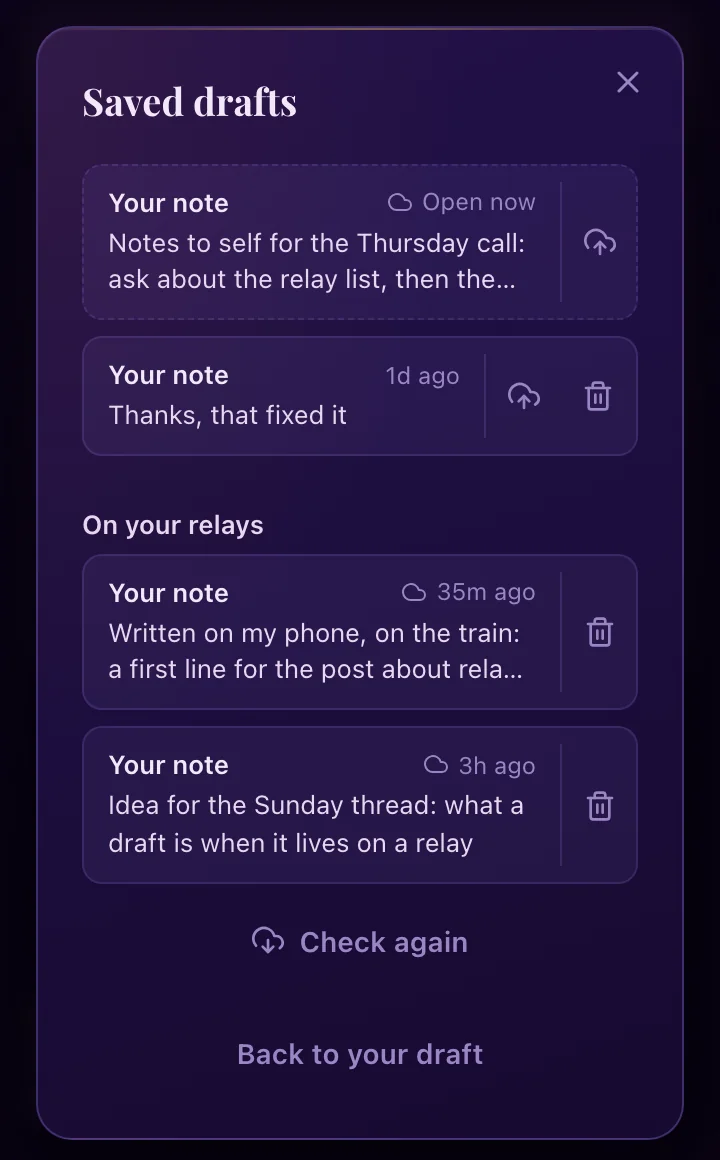
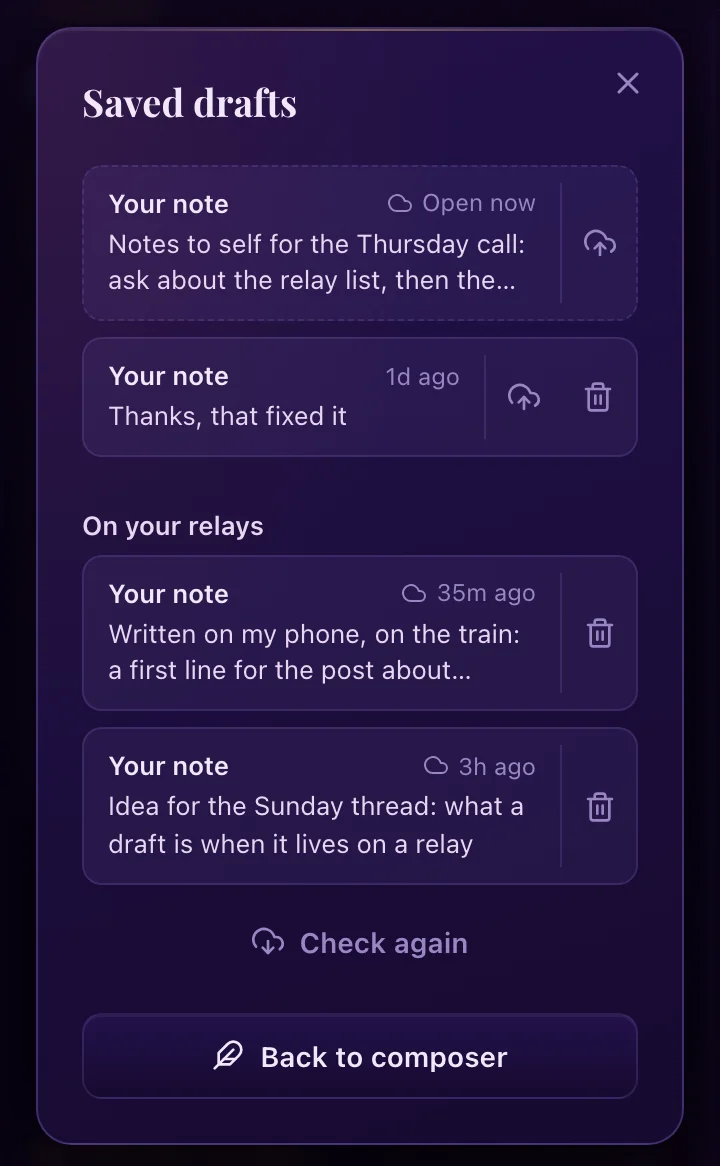
Open Saved drafts without a local draft, and read nostr references in draft rows (#643)
* Open Saved drafts without a local draft, and read nostr references in draft rows

The compose menu's "Open saved drafts" was shown only when this device held a draft, which
hid the way to drafts kept on relays from anyone who had none here. It is now there for any
account.

In the one-line view of a draft, a mention is "@name" (a short npub until the name is known,
looked up when the panel has not seen the person) and a quoted note, event or address is its
first and last characters, not 60 characters of bech32. The stored draft is unchanged.

The way out of the list says "Back to composer", as a full-width button with the composer's
feather, since it is also reached with no draft in progress.

* Say in the changelog and help that Open saved drafts is always there, and retire the old back label

Drops "Back to your draft" from the locale files, since nothing uses it now.

* Retake the Saved drafts help image with the Back to composer button

---------

diff --git a/test/saved-drafts.test.js b/test/saved-drafts.test.js
@@ -46,8 +46,9 @@ function find(el, cls) {
   return null;
 }
 
-function load() {
+function load(extra) {
   const ctx = withI18n({
+    ...(extra || {}),
     console,
     Date,
     h: (tag, props, kids) => {
@@ -63,9 +64,9 @@ function load() {
   });
   vm.createContext(ctx);
   vm.runInContext(
-    ['draftHasContent', 'otherDraftEntries', 'draftSnippet', 'draftKindLabel', 'buildSavedDraftList'].map(lift).join('\n') +
+    ['draftHasContent', 'otherDraftEntries', 'draftRefsAsText', 'draftSnippet', 'draftKindLabel', 'buildSavedDraftList'].map(lift).join('\n') +
       '\nthis.draftHasContent = draftHasContent; this.otherDraftEntries = otherDraftEntries;' +
-      ' this.buildSavedDraftList = buildSavedDraftList;',
+      ' this.buildSavedDraftList = buildSavedDraftList; this.draftSnippet = draftSnippet;',
     ctx
   );
   return ctx;
@@ -200,4 +201,53 @@ test('a reply saved without its target is looked up before it opens', () => {
   // Opened as it stood, the slot would be chosen without a target: the note draft.
   assert.match(panel, /if \(entry\.reply && !\(target && target\.id\)\) \{\s*const ev = await fetchNoteById\(entry\.replyId\);/);
   assert.match(panel, /if \(!ev\) \{ toast\(t\('The note this reply answers could not be loaded\.'\), 'error'\); return; \}/);
+});
+
+
+// ---- a mention or a quoted note in a draft reads as a person would read it, not as bech32 ----
+
+function realNostrTools() {
+  const ntCtx = vm.createContext({ crypto: globalThis.crypto, TextEncoder, TextDecoder, setTimeout, clearTimeout, console, URL, queueMicrotask });
+  ntCtx.self = ntCtx; ntCtx.window = ntCtx; ntCtx.globalThis = ntCtx;
+  vm.runInContext(fs.readFileSync(path.join(ROOT, 'nostr-tools.js'), 'utf8'), ntCtx);
+  return ntCtx.NostrTools;
+}
+
+test('a nostr: reference in the one-line view is a short form, never the whole bech32', () => {
+  const NT = realNostrTools();
+  const { draftSnippet } = load();
+  const npub = NT.nip19.npubEncode(PK);
+  const nevent = NT.nip19.neventEncode({ id: N1 });
+  const nprofile = NT.nip19.nprofileEncode({ pubkey: OTHER, relays: ['wss://relay.example/'] });
+  const text = 'thanks nostr:' + npub + ' and nostr:' + nprofile + ', see nostr:' + nevent;
+  const out = draftSnippet({ text });
+  assert.ok(!out.includes(npub) && !out.includes(nprofile) && !out.includes(nevent), 'no full reference is left: ' + out);
+  assert.ok(!out.includes('nostr:'), 'the scheme goes with it: ' + out);
+  assert.ok(out.startsWith('thanks @' + npub.slice(0, 10) + '\u2026' + npub.slice(-4)), out);
+  assert.ok(out.endsWith(nevent.slice(0, 10) + '\u2026' + nevent.slice(-4)), 'an event is its first and last characters: ' + out);
+  // A name, once known, replaces the short form for that person only.
+  const named = draftSnippet({ text }, { [npub]: 'Amelia' });
+  assert.ok(named.startsWith('thanks @Amelia and @'), named);
+  // Text with no reference is untouched, and a malformed one is left as written.
+  assert.equal(draftSnippet({ text: 'plain   words ' }), 'plain words');
+  assert.equal(draftSnippet({ text: 'nostr:npub1short' }), '@npub1short');
+});
+
+test('a row shows a short npub at once and the person\'s name when it arrives, and keeps the draft whole', async () => {
+  const NT = realNostrTools();
+  const npub = NT.nip19.npubEncode(PK);
+  const { buildSavedDraftList } = load({ window: { NostrTools: NT } });
+  let resolve;
+  const asked = [];
+  const list = buildSavedDraftList({
+    entries: [{ key: 'k', draft: { text: 'hello nostr:' + npub + ' there', savedAt: 1 } }],
+    nameFor: (pk) => { asked.push(pk); return new Promise((r) => { resolve = r; }); },
+    onPick() {}, onDelete: async () => {},
+  });
+  const snip = find(list, 'saved-draft-snip');
+  assert.equal(snip.textContent, 'hello @' + npub.slice(0, 10) + '\u2026' + npub.slice(-4) + ' there');
+  assert.deepEqual(asked, [PK]);
+  resolve('Amelia');
+  await new Promise((r) => setTimeout(r, 0));
+  assert.equal(snip.textContent, 'hello @Amelia there');
 });

diff --git a/composer-core.js b/composer-core.js
@@ -2804,8 +2804,22 @@ window.SidecarCore = (function () {
     all[pubkey] = { ...picked, savedAt: now };
     return true;
   }
-  function draftSnippet(d) {
-    const text = stripDraftMediaUrls(d.text || '', d.media).replace(/\s+/g, ' ').trim();
+  // THE ONE-LINE VIEW OF A DRAFT READS NOSTR REFERENCES AS A PERSON WOULD. A mention is
+  // stored as nostr:npub1… or nostr:nprofile1…, 63 characters or more of bech32 that filled
+  // the row and said nothing. A person is "@name", or a short npub until the name is known
+  // (`names` maps the bech32 to it), and a note, event or address is its first and last
+  // characters. Only the display changes: the draft keeps the full reference.
+  function draftRefsAsText(text, names) {
+    return String(text || '').replace(/nostr:((?:npub|nprofile|note|nevent|naddr)1[02-9ac-hj-np-z]+)/g, (whole, code) => {
+      const person = code.startsWith('npub1') || code.startsWith('nprofile1');
+      const known = names && names[code];
+      if (person && known) return '@' + known;
+      const short = code.length > 20 ? code.slice(0, 10) + '\u2026' + code.slice(-4) : code;
+      return person ? '@' + short : short;
+    });
+  }
+  function draftSnippet(d, names) {
+    const text = draftRefsAsText(stripDraftMediaUrls(d.text || '', d.media), names).replace(/\s+/g, ' ').trim();
     if (text) return text;
     // A poll with its options typed and no question yet still says what it is.
     const opts = (d.poll && d.poll.options || []).map((o) => (o || '').trim()).filter(Boolean);
@@ -2857,7 +2871,25 @@ window.SidecarCore = (function () {
         meta.append(mark);
       }
       meta.append(when);
-      const snip = h('span', { className: 'saved-draft-snip', dir: 'auto', textContent: draftSnippet(entry.draft) });
+      // The people named in the text: a short npub at once, their name when it arrives.
+      const names = {};
+      const NT = (typeof window !== 'undefined' && window.NostrTools) || null;
+      const people = new Map();
+      if (NT) {
+        for (const m of String(entry.draft.text || '').matchAll(/nostr:((?:npub|nprofile)1[02-9ac-hj-np-z]+)/g)) {
+          try {
+            const dec = NT.nip19.decode(m[1]);
+            const pk = dec.type === 'npub' ? dec.data : dec.data && dec.data.pubkey;
+            if (!pk) continue;
+            const npub = NT.nip19.npubEncode(pk);
+            names[m[1]] = npub.slice(0, 10) + '\u2026' + npub.slice(-4);
+            if (!people.has(pk)) people.set(pk, []);
+            people.get(pk).push(m[1]);
+          } catch (_) { /* a reference that does not decode stays as its short form */ }
+        }
+      }
+      const snipText = () => draftSnippet(entry.draft, names);
+      const snip = h('span', { className: 'saved-draft-snip', dir: 'auto', textContent: snipText() });
       const open = h('button', { className: 'saved-draft-open', type: 'button' }, [top, snip]);
       const kids = [open];
       if (d.onSave && !entry.relayItem && !entry.draft.poll) {
@@ -2890,13 +2922,23 @@ window.SidecarCore = (function () {
         }).catch(() => {});
       }
 
+      if (d.nameFor) {
+        people.forEach((codes, pk) => {
+          Promise.resolve(d.nameFor(pk)).then((n) => {
+            if (!n || !snip.isConnected) return;
+            codes.forEach((c) => { names[c] = n; });
+            if (!row.classList.contains('confirming')) snip.textContent = snipText();
+          }).catch(() => {});
+        });
+      }
+
       let timer = null;
       const settle = () => {
         clearTimeout(timer);
         row.classList.remove('confirming');
         label.textContent = draftKindLabel(entry, name);
         meta.classList.remove('hidden');
-        snip.textContent = draftSnippet(entry.draft);
+        snip.textContent = snipText();
       };
       const confirmDelete = () => {
         row.classList.add('confirming');

diff --git a/test/saved-drafts-shortcut.browser.test.js b/test/saved-drafts-shortcut.browser.test.js
@@ -1,7 +1,8 @@
 'use strict';
 
-// "Open saved drafts" on the compose menu, against the REAL extension. The item appears only
-// when the account has drafts, opens the same list the composer's folder opens, and does it
+// "Open saved drafts" on the compose menu, against the REAL extension. The item is always there
+// (the list is also where drafts kept on relays are read back, so it cannot wait for a draft on
+// this device), opens the same list the composer's folder opens, and does it
 // without writing over the draft it is there to list: opened with a note in progress, that note
 // is the "Open now" row and Back returns to it with every word still there.
 
@@ -22,7 +23,7 @@ async function openMenu(x) {
 }
 const stored = async (x) => ((await x.message({ type: 'SIDECAR_SECRET_GET', store: 'drafts' })) || {}).result || {};
 
-test('the item is there only when there are drafts, and the list opens without overwriting the draft', opts, async (t) => {
+test('the item is there with no drafts at all, and the list opens without overwriting the draft', opts, async (t) => {
   let x;
   try { x = await startExtension(); } catch (e) { if (e.skip) return t.skip(e.message); throw e; }
   try {
@@ -30,11 +31,18 @@ test('the item is there only when there are drafts, and the list opens without o
 
     await openMenu(x);
     assert.equal(await x.evaluate(visible('#compose-note-btn')), true, 'the menu is open');
-    assert.equal(await x.evaluate(visible('#saved-drafts-btn')), false, 'no drafts, no item');
+    assert.equal(await x.evaluate(visible('#saved-drafts-btn')), true, 'no drafts on this device, and the item is still there');
+    // With nothing saved here the list still opens, and it is where the relays are checked.
+    assert.ok(await x.evaluate(click('#saved-drafts-btn')));
+    await x.waitFor(`!!document.querySelector('#modal .relay-drafts-btn')`);
+    assert.match(await x.evaluate(`document.querySelector('#modal h3').textContent`), /Saved drafts/);
+    assert.equal(await x.evaluate(`!!document.querySelector('#modal .saved-draft')`), false, 'no rows, nothing to list');
+    await x.evaluate(`document.querySelector('#modal .modal-x').click()`);
+    await x.waitFor(`!document.querySelector('#modal') || document.querySelector('#modal').classList.contains('hidden') || !document.querySelector('#modal h3')`).catch(() => {});
 
     await x.message({ type: 'SIDECAR_SECRET_SET', store: 'drafts', value: { [x.me]: { text: 'A note in progress', media: [], savedAt: Date.now() } } });
     await openMenu(x);
-    assert.equal(await x.evaluate(visible('#saved-drafts-btn')), true, 'a draft in progress shows the item');
+    assert.equal(await x.evaluate(visible('#saved-drafts-btn')), true, 'a draft in progress keeps the item');
 
     assert.ok(await x.evaluate(click('#saved-drafts-btn')));
     await x.waitFor(`!!document.querySelector('#modal .saved-draft-current')`);
@@ -46,7 +54,7 @@ test('the item is there only when there are drafts, and the list opens without o
     assert.equal((await stored(x))[x.me].text, 'A note in progress');
 
     // And back to it, in the editor, with the text in the box.
-    assert.ok(await x.evaluate(`(() => { const b = [...document.querySelectorAll('#modal button')].find((e) => e.textContent.trim() === 'Back to your draft'); if (!b) return false; b.click(); return true; })()`));
+    assert.ok(await x.evaluate(`(() => { const b = [...document.querySelectorAll('#modal button')].find((e) => e.textContent.trim() === 'Back to composer'); if (!b) return false; b.click(); return true; })()`));
     await x.waitFor(`!!document.querySelector('#modal [contenteditable]')`);
     assert.equal(await x.evaluate(`document.querySelector('#modal [contenteditable]').innerText.trim()`), 'A note in progress');
     assert.deepEqual(x.errors, []);

diff --git a/sidepanel.js b/sidepanel.js
@@ -1916,22 +1916,13 @@
     toast(t('Locked'), 'success');
   });
 
-  // "Open saved drafts" on the compose menu, only when this account has some: the same list the
-  // folder in the composer's corner opens, without opening a note to get to it. Worked out as
-  // the menu opens, from this device's drafts (what is on the relays needs the network, and the
-  // list asks for that itself once it is open).
-  async function refreshSavedDraftsItem() {
+  // "Open saved drafts" on the compose menu, for any account: the same list the folder in the
+  // composer's corner opens, without opening a note to get to it. It is not tied to drafts on
+  // this device, because the list is also where drafts kept on relays are read back, and
+  // a person whose only drafts are on relays has none here to be told about.
+  function refreshSavedDraftsItem() {
     const btn = $('saved-drafts-btn');
-    if (!btn) return;
-    btn.hidden = true;
-    const pk = state && state.activePubkey;
-    if (!pk) return;
-    try {
-      const all = (await call({ type: 'SIDECAR_SECRET_GET', store: 'drafts' })) || {};
-      const key = draftKey(pk, null);
-      const core = window.SidecarCore;
-      btn.hidden = !(core.otherDraftEntries(all, pk, key).length || (all[key] && core.draftHasContent(all[key])));
-    } catch (_) { /* no list, no item: the folder in the composer is still there */ }
+    if (btn) btn.hidden = !(state && state.activePubkey);
   }
   $('compose-fab').addEventListener('click', refreshSavedDraftsItem);
   $('saved-drafts-btn').addEventListener('click', () => {
@@ -6766,6 +6757,14 @@
     const cached = notifProfileName(pubkey);
     if (typeof cached === 'string' && cached) return cached;
     try { return shortNpub(NT.nip19.npubEncode(pubkey)); } catch (_) { return '—'; }
+  }
+
+  // A person's name for a row in Saved drafts: the one already known, else looked up (a draft
+  // can name someone this panel has never shown), else the short npub as before.
+  function draftPersonName(pubkey) {
+    const cached = notifProfileName(pubkey);
+    if (typeof cached === 'string' && cached) return Promise.resolve(cached);
+    return getProfile(pubkey).then((p) => (p && p.name) || notifAuthorName(pubkey), () => notifAuthorName(pubkey));
   }
 
   // A FAILED LOOKUP IS NOT A RESULT. The in-flight marker below doubles as the cache
@@ -15390,11 +15389,11 @@
       modal.innerHTML = '';
       modal.classList.remove('has-drafts-btn');
       addCorner(false);
-      const back = h('button', { className: 'ghost', textContent: t('Back to your draft') });
+      const back = h('button', { className: 'secondary drafts-back', type: 'button' }, [icon('feather'), h('span', { textContent: t('Back to composer') })]);
       back.addEventListener('click', () => showEditor());
       const pane = buildRelayDraftsPane({
         relays: relayDrafts, pubkey, localDrafts: all,
-        nameFor: (pk) => Promise.resolve(notifAuthorName(pk)),
+        nameFor: draftPersonName,
         setupRelays: relayDraftSetupRelays,
         notify: toast,
         onChanged: () => showSavedDrafts(),
@@ -15410,7 +15409,7 @@
         h('h3', { textContent: t('Saved drafts') }),
         entries.length ? buildSavedDraftList({
           entries,
-          nameFor: (pk) => Promise.resolve(notifAuthorName(pk)),
+          nameFor: draftPersonName,
           onPick: (entry) => switchToSavedDraft(entry),
           onCurrent: () => showEditor(),
           onSave: (entry) => pane.saveEntry(entry),

diff --git a/compose.js b/compose.js
@@ -949,7 +949,7 @@
     // they are the panel's to bring back, the same as the note itself.
     const others = SC.otherDraftEntries(await readAllDrafts(), state.activePubkey, dkey)
       .filter((e) => e.key !== inPanel && !(e.shelved && inPanel === state.activePubkey));
-    // Not while the list is up: the list is what it opens, and "Back to your draft" is
+    // Not while the list is up: the list is what it opens, and "Back to composer" is
     // the way out of it, as in the panel.
     btn.classList.toggle('hidden', listing || receiptShown);
     $('compose-drafts-count').textContent = others.length ? I18N.fmtNum(others.length) : '';
@@ -966,7 +966,7 @@
       entries.unshift({ key: dkey, draft: all[dkey], current: true, reply: !!replyTo, replyId });
     }
     pane.innerHTML = '';
-    const back = h('button', { className: 'ghost compose-drafts-back', type: 'button', textContent: t('Back to your draft') });
+    const back = h('button', { className: 'secondary drafts-back compose-drafts-back', type: 'button' }, [icon('feather'), h('span', { textContent: t('Back to composer') })]);
     back.addEventListener('click', () => showTab('write'));
     const nameFor = (pk) => fetchPreviewProfile(pk).then((p) => (p && p.name) || null);
     const relayPane = SC.buildRelayDraftsPane({
@@ -2077,7 +2077,7 @@
       $('compose-count').style.visibility = which === 'drafts' ? 'hidden' : '';
       if (which === 'drafts') { paintSavedDrafts(); return; }
       // THE FOLDER COMES BACK WITH THE EDITOR. It stands down while the list is up, and
-      // repainting it is what brings it back: Back to your draft, and a pick (whose own
+      // repainting it is what brings it back: Back to composer, and a pick (whose own
       // repaint ran while the list was still showing), left it hidden with drafts saved.
       if (wasListing) paintSavedDrafts();
       paintPreview();

diff --git a/help.html b/help.html
@@ -645,8 +645,8 @@
       <h2>Drafts</h2>
       <p>What you are writing is saved on this device as you go, for each account. Close the
       composer and Sidecar offers the note back the next time you open it. <strong>Saved
-      drafts</strong> in the composer lists every one, and when the account has any, the
-      compose menu gains <em>Open saved drafts</em>, which goes straight to the list, in the
+      drafts</strong> in the composer lists every one, and the
+      compose menu has <em>Open saved drafts</em>, which goes straight to the list, in the
       panel or in the full-size composer tab. Opening a draft sets your note in progress
       aside in that list instead of writing over it.</p>
 
@@ -667,7 +667,7 @@
       <!-- screenshot: Saved drafts with a draft on this device and one from the relays -->
       <figure class="shot">
         <div class="shot-frame">
-          <img src="screenshots/saved-drafts.webp" width="720" height="1160" alt="Saved drafts: a note open now and a second note on this device, each with a cloud and a trash can, and an On your relays list with two drafts another client left, above Check again and Back to your draft">
+          <img src="screenshots/saved-drafts.webp" width="720" height="1166" alt="Saved drafts: a note open now and a second note on this device, each with a cloud and a trash can, and an On your relays list with two drafts another client left, above Check again and a Back to composer button">
         </div>
         <figcaption>Drafts on this device, and the ones your relays are holding.</figcaption>
       </figure>

diff --git a/styles.css b/styles.css
@@ -3793,7 +3793,11 @@ html.compose-booting .compose-topbar .compose-x { visibility: hidden; }
 /* Match the card's 24px content inset, including the count badge's 2px overhang. */
 .compose-sheet .compose-drafts-btn { top: 24px; inset-inline-end: 26px; }
 .compose-drafts-title { margin: 0 0 12px; }
-.compose-drafts-back { align-self: center; margin-top: 12px; }
+.compose-drafts-back { margin-top: 12px; }
+/* The way out of Saved drafts: a real button with the composer's feather, full width like the
+   relay buttons above it (AGENTS.md row grammar), so it is not mistaken for a hint. */
+.drafts-back { width: 100%; display: inline-flex; align-items: center; justify-content: center; gap: 8px; }
+.drafts-back svg { width: 16px; height: 16px; flex-shrink: 0; }
 /* The open draft's own parts, put away while the list of other drafts is up (showTab). */
 .drafts-away { display: none !important; }
 .compose-drafts-pane {

diff --git a/test/relay-drafts.test.js b/test/relay-drafts.test.js
@@ -538,7 +538,7 @@ function listCtx() {
     pictureCount: () => 0,
   });
   vm.createContext(ctx);
-  vm.runInContext(['draftSnippet', 'draftKindLabel', 'buildSavedDraftList'].map(lift).join('\n') + '\nthis.build = buildSavedDraftList;', ctx);
+  vm.runInContext(['draftRefsAsText', 'draftSnippet', 'draftKindLabel', 'buildSavedDraftList'].map(lift).join('\n') + '\nthis.build = buildSavedDraftList;', ctx);
   return ctx;
 }
 

diff --git a/CHANGELOG.md b/CHANGELOG.md
@@ -12,8 +12,8 @@ has entries, and that heading becomes the version heading when the release is cu
 ## [1.18.0] — 2026-11-18
 
 ### Added
-- **Drafts can live on your relays, and a draft another client left there can be opened.** The cloud on a draft in Saved drafts saves it to your private relays as an encrypted NIP-37 draft (kind 31234, sealed to your own key), so a relay holds ciphertext and nothing readable. If you have no private relay list, Sidecar says so and offers one built from your write relays, publishing a relay list first if you have none. “Check your relays” lists what other clients saved there, newest first and ten at a time. Opening one sets your note in progress aside in Saved drafts instead of writing over it, and deleting a draft, or posting one that has a relay copy, blanks the relay copy. Nothing is read or sent until you tap, and a relay that asks you to sign in is answered with your account’s key. Notes, replies and web-comment replies are listed; drafts of other kinds are counted, and hovering the count names the kinds.
-- **“Open saved drafts” on the compose menu,** shown when the account has drafts. It goes straight to the list, in the panel or, when the full-size composer is your default, in its tab.
+- **Drafts can live on your relays, and a draft another client left there can be opened.** The cloud on a draft in Saved drafts saves it to your private relays as an encrypted NIP-37 draft (kind 31234, sealed to your own key), so a relay holds ciphertext and nothing readable. If you have no private relay list, Sidecar says so and offers one built from your write relays, publishing a relay list first if you have none. “Check your relays” lists what other clients saved there, newest first and ten at a time. Opening one sets your note in progress aside in Saved drafts instead of writing over it, and deleting a draft, or posting one that has a relay copy, blanks the relay copy. Nothing is read or sent until you tap, and a relay that asks you to sign in is answered with your account’s key. Notes, replies and web-comment replies are listed; drafts of other kinds are counted, and hovering the count names the kinds. A mention in a draft’s row reads as the person’s name, and a quoted note as its first and last characters, in place of the whole reference.
+- **“Open saved drafts” on the compose menu,** there for any account, so drafts kept on your relays can be reached with none on this device. It goes straight to the list, in the panel or, when the full-size composer is your default, in its tab.
 - **Name search beyond your follows runs on a search relay you choose.** A selector under Settings picks the source: only your follows, your own search relays, Brainstorm’s relay, or one you enter. An account that has published search relays (kind 10007) uses them without asking; otherwise Sidecar asks once and offers Brainstorm’s relay, ranked by trust, as the default. A relay you chose is never swapped for another, a search carries only the text typed, and every result is a signed profile that is dropped unless its signature verifies. Brainstorm only returns accounts it has scored, so a brand-new account may not appear until it has followers. If your follows have no match and the setting is off, the ask comes back in the results. A saved “no” carries over.
 - **A missing profile picture or banner can be added from the Profile screen.** With none set, the empty banner and the default avatar are the upload buttons: a picked file uploads and the profile is republished on the spot, each image merged into what you already have. Once an image is set, changing it stays in the edit sheet. Only one upload runs at a time, and switching accounts while one is uploading publishes nothing.
 - **Each account’s permission level in the shared-site sheet.** On a site where two of your accounts are signed in, the sheet behind Manage lists each account with its own level under its name. Changing a level never changes Sidecar’s active account.
